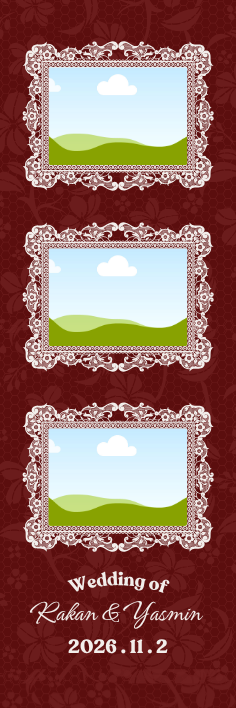
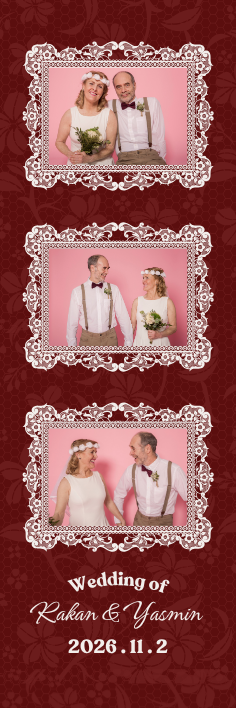
Replace wedding-2 (red frame) template's placeholder photos with real photos
Same approach as the wedding-1 photo swap: uploaded the 3 supplied photos
into the actual Canva source design's photo frames via Replace (keeping the
ornate lace-frame masking exact), re-exported, and swapped
assets/templates/wedding-2.png. Bumped its ?v= cache-busting param to 2.

Claude-Session: https://claude.ai/code/session_011y15o4KncqkJzbr6yPhEa1

Changed region(s): [[0.178, 0.5904, 0.8008, 0.7458], [0.2076, 0.3418, 0.8008, 0.4972], [0.2076, 0.0932, 0.8008, 0.2486]]

diff --git a/index.html b/index.html
@@ -213,7 +213,7 @@
       </div>
       <div class="op-picker reveal">
         <button type="button" class="op-btn on" data-src="assets/templates/wedding-1.png?v=2" aria-pressed="true"><b data-i18n="m_op_w1_b">Wedding</b><span data-i18n="m_op_w1_s">Lace &amp; navy</span></button>
-        <button type="button" class="op-btn" data-src="assets/templates/wedding-2.png?v=1" aria-pressed="false"><b data-i18n="m_op_w2_b">Wedding</b><span data-i18n="m_op_w2_s">Royal red frame</span></button>
+        <button type="button" class="op-btn" data-src="assets/templates/wedding-2.png?v=2" aria-pressed="false"><b data-i18n="m_op_w2_b">Wedding</b><span data-i18n="m_op_w2_s">Royal red frame</span></button>
         <button type="button" class="op-btn" data-src="assets/templates/wedding-3.png?v=1" aria-pressed="false"><b data-i18n="m_op_w3_b">Wedding</b><span data-i18n="m_op_w3_s">Monogram</span></button>
         <button type="button" class="op-btn" data-src="assets/templates/business-1.png?v=1" aria-pressed="false"><b data-i18n="m_op_b1_b">Corporate event</b><span data-i18n="m_op_b1_s">Brand colours</span></button>
       </div>
